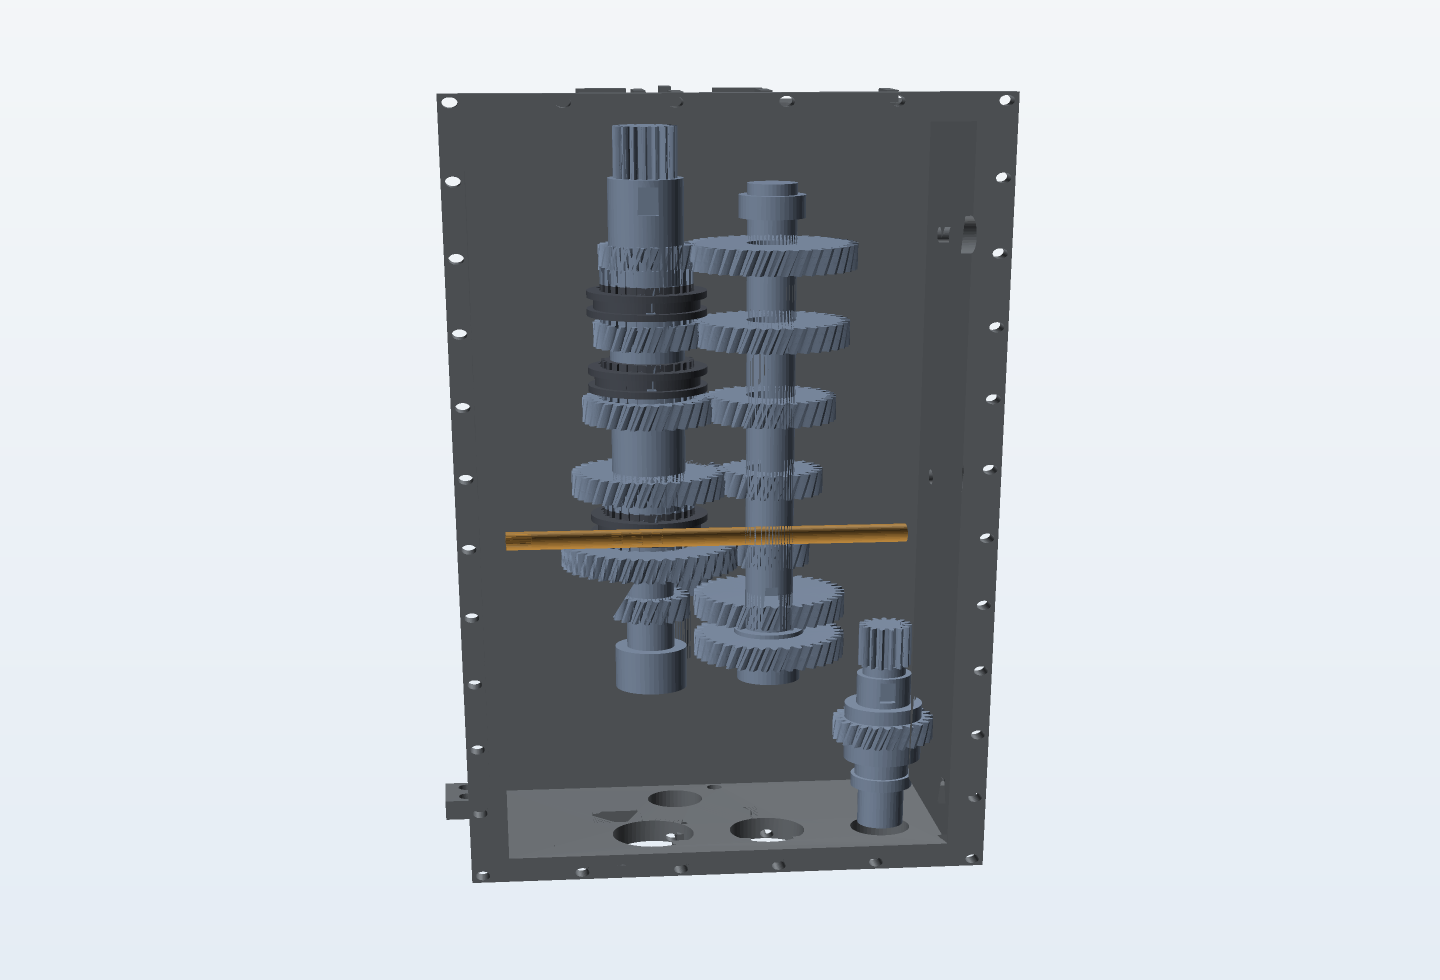
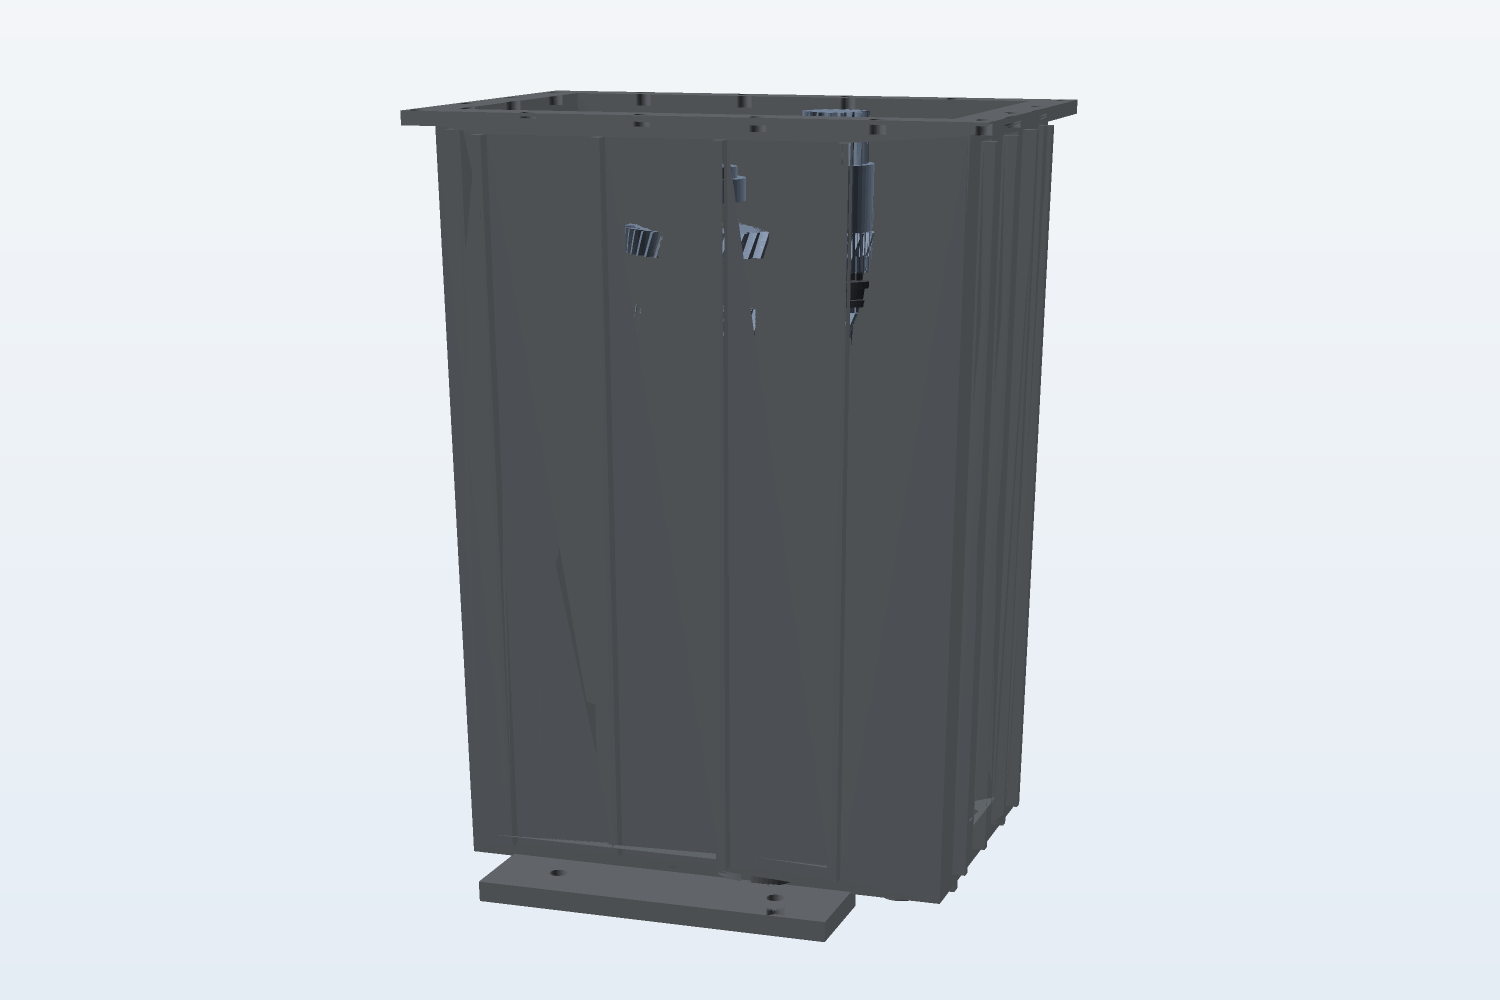
docs: housing generated by Varen CAD under the engineering rules (audit PASS)
Redone housing: the agent called housing_design(brief) first so the cavity
(282x175x673mm) and bearing positions come from the internals envelope, then
built and audited. Against the itemised checklist: rotating clearance 5.00mm
radial/axial, 7 coaxial bearing seats (seat wall 6.9mm), bolt edge margin
1.93mm (was -1.97mm and cutting the case edge), cover separable, single
solid, horizontal layout consistent, 0 audit FAILs (1 WARN: cavity 126mm
loose in Y). Full assembly 325 pairs, 0 hard collisions.

Changed region(s): [[0.25, 0.0918, 0.7188, 0.949]]

diff --git a/docs/index.html b/docs/index.html
@@ -559,10 +559,9 @@
     <span class="eyebrow-section">Transmission</span>
     <h2 class="section-title">5 挡手动<em>变速器总成</em></h2>
     <p class="section-subtitle">
-      <strong>壳体由 Varen CAD 自主生成</strong>（真实 LLM agent 调 MechKernel 公开 op，40 步 / 55 分钟）：下壳体 + 端盖，
-      8 处轴承座（4 轴×两端，外凸圆柱台 + 轴承孔）、剖分面 32×M8 法兰（与端盖孔位一一配对）、
-      32 条放射状铸造加强筋、放油塞 M12 / 加油 M16 螺纹孔、2 处安装底脚。
-      <br/>连同 24 件传动件共 26 件 / 325 对干涉全查 / <strong>硬碰撞 0</strong> · 材质着色（铸铁/钢/青铜，z-buffer 软件渲染）。
+      <strong>壳体由 Varen CAD 按工程规范自主生成</strong>：先调 <span class="mono">housing_design(brief)</span> 读内部件包络**反推**必需内腔（282×175×673mm）、各轴心/轴颈/齿顶半径，
+      再建模，最后逐项<b>程序审计</b>——旋转件间隙 5.00mm、7 处轴承座同轴配对、法兰螺栓边距 1.93mm、端盖可拆、单实体、卧式布局一致，<strong>审计 FAIL 0</strong>。
+      <br/>连同 24 件传动件共 26 件 / 325 对干涉全查 / <strong>硬碰撞 0</strong> · 材质着色（z-buffer 软件渲染）。
     </p>
     <div style="text-align:center;">
       <img src="images/varen-transmission-visual.png" alt="5 挡手动变速器总成可视化：装配四视图 + 24 个零件缩略图 + 指标" loading="lazy" style="width:100%;max-width:1180px;border:1px solid var(--line);border-radius:14px;box-shadow:0 20px 48px -20px rgba(4,17,31,0.26);"/>

diff --git a/README.md b/README.md
@@ -20,7 +20,7 @@
 </p>
 
 <p align="center">
-  5 挡手动变速器总成（三轴式 · 真渐开线斜齿 β=15° · 壳体由 Varen CAD 自主生成 · 26 件 / 硬碰撞 0）：<br/>
+  5 挡手动变速器总成（三轴式 · 真渐开线斜齿 β=15° · 壳体由 Varen CAD 按包络反推生成 + 逐项审计 · 26 件 / 硬碰撞 0）：<br/>
   <img src="docs/images/varen-transmission-visual.png" alt="5 挡手动变速器总成可视化：装配四视图 + 24 零件缩略图" width="860"/>
 </p>
 
